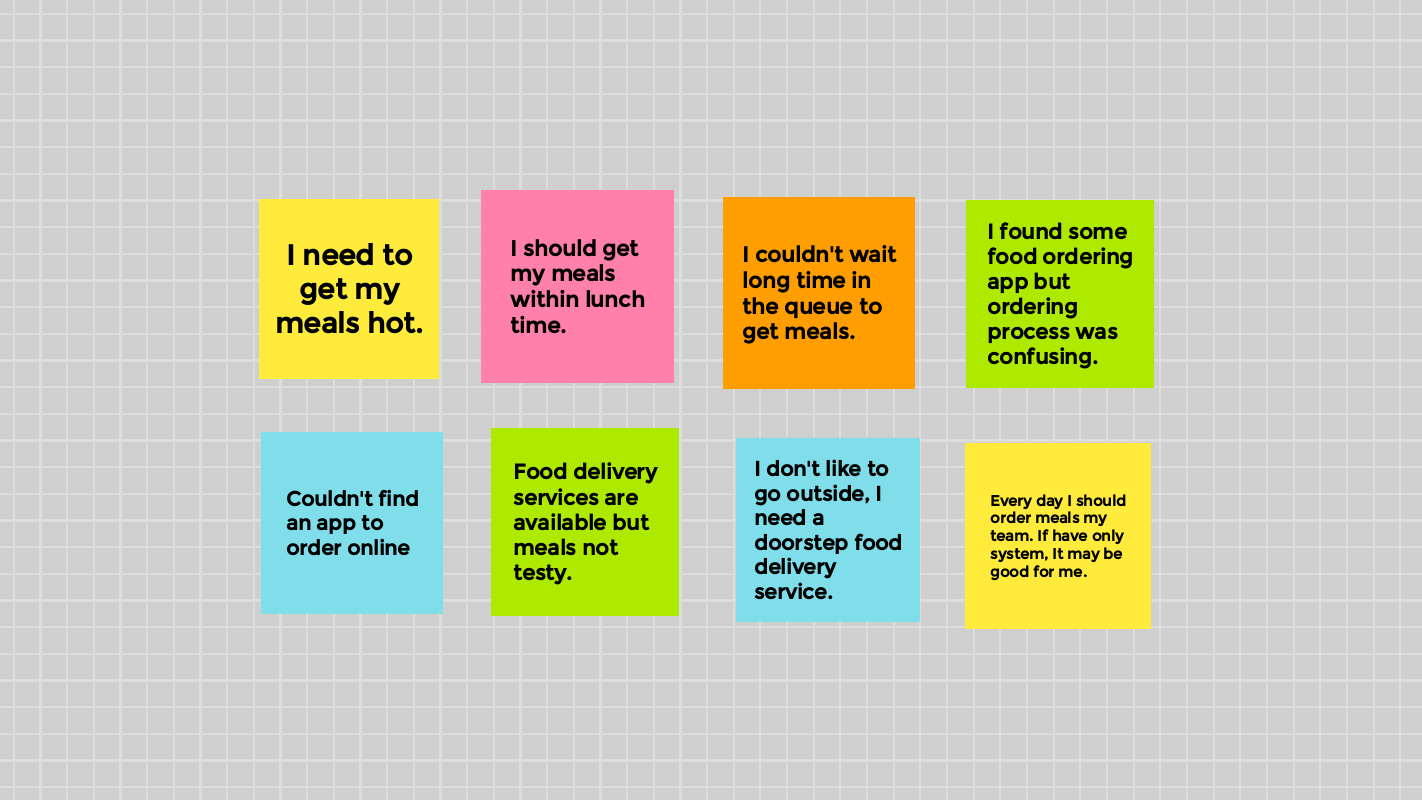
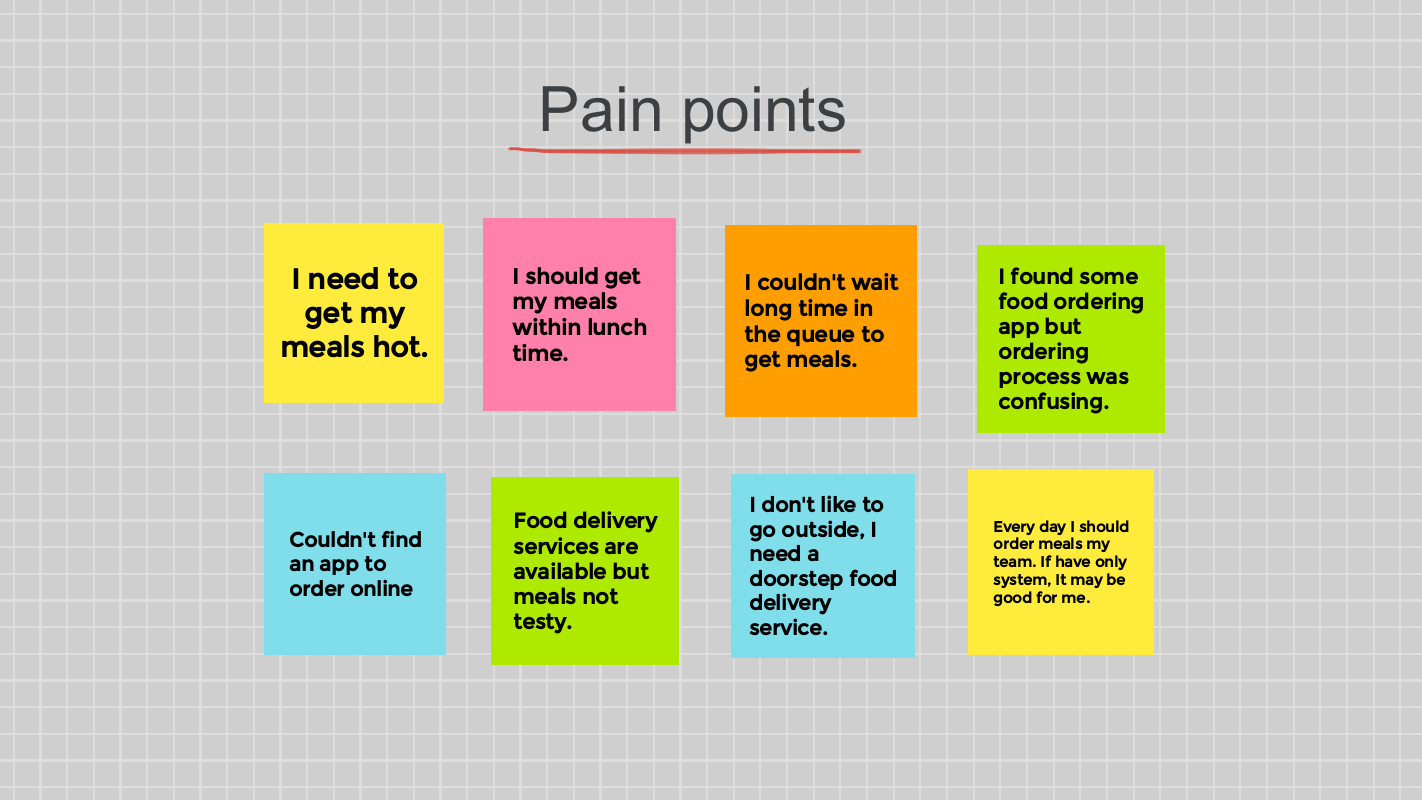
changed

diff --git a/cabin-app.html b/cabin-app.html
@@ -119,6 +119,8 @@
                 </div>
             </div>
         </div>
+
+
         <!-- Start Page Wrapper  -->
         <main class="page-wrapper">
             <!-- Start Portfolio Details Area  -->
@@ -194,7 +196,7 @@
                 </div>
             </div>
             <!-- End Portfolio Details Area  -->
-
+            <!-- Start user research area  -->
             <div class="rn-portfolio-details ptb--120 bg_color--5">
                 <div class="container">
                     <div class="row">
@@ -214,6 +216,29 @@
                     </div>
                 </div>
             </div>
+            <!-- End user research area  -->
+
+            <!-- Start Persona Area  -->
+            <div class="rn-portfolio-details ptb--120 bg_color--1">
+                <div class="container">
+                    <div class="row">
+                        <div class="col-lg-12">
+                            <div class="portfolio-details">
+                                <div class="inner mb--60">
+                                    <h2>Persona<span class="theme-color font--100 fontWeight800">.</span></h2>
+                                    <p class="pt--15">Focused on understanding user behaviors, needs, and motivations through observation and feedback. Foundational research have conducted and could identified some pain points of the target users. </p>
+                                </div>
+                                <div class="portfolio-thumb-inner">
+                                    <div class="thumb mb--60">
+                                        <img src="assets/images/portfolio/chef/painpoints.png" alt="Portfolio Images">
+                                    </div>
+                                </div>
+                            </div>
+                        </div>
+                    </div>
+                </div>
+            </div>
+            <!-- End uPersona area  -->
             <!-- End Portfolio Details Area  -->
 
             <!-- End Related Work  -->
